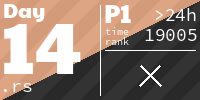
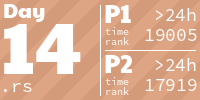
Tiles

diff --git a/README.md b/README.md
@@ -17,7 +17,7 @@
 ## Scores
 <!-- AOC TILES BEGIN -->
 <h1 align="center">
-  Advent of Code - 149/500 ⭐
+  Advent of Code - 150/500 ⭐
 </h1>
 <h1 align="center">
   2024 - 50 ⭐ - Rust
@@ -239,7 +239,7 @@
   <img src=".aoc_tiles/tiles/2019/01.png" width="161px">
 </a>
 <h1 align="center">
-  2015 - 25 ⭐ - Rust
+  2015 - 26 ⭐ - Rust
 </h1>
 <a href="aoc-2015/src/day01.rs">
   <img src=".aoc_tiles/tiles/2015/01.png" width="161px">
